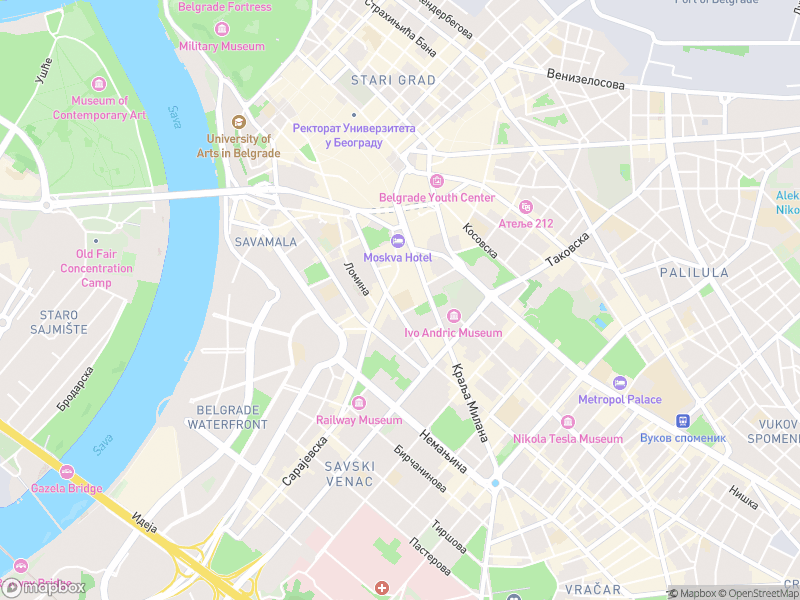
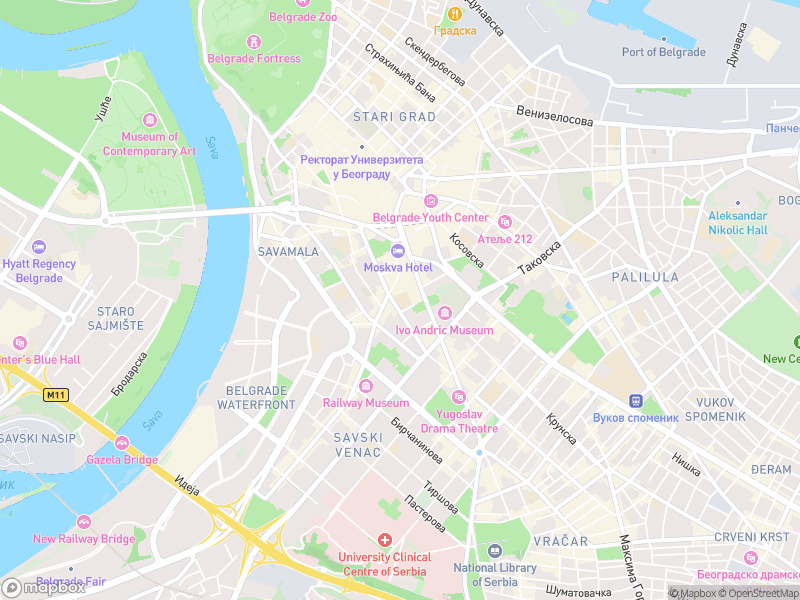
Generate RML, download map background: belgrade_tour+points

diff --git a/parse-route.js b/parse-route.js
@@ -4,7 +4,6 @@ const https = require('https');
 const { execSync } = require('child_process');
 const readline = require('readline/promises');
 
-// Функция для безопасного чтения токена из файла .env
 function loadEnv() {
     const envPath = path.join(__dirname, '.env');
     if (fs.existsSync(envPath)) {
@@ -12,9 +11,7 @@ function loadEnv() {
         envContent.split(/\r?\n/).forEach(line => {
             const parts = line.split('=');
             if (parts.length === 2) {
-                const key = parts[0].trim();
-                const value = parts[1].trim();
-                process.env[key] = value;
+                process.env[parts[0].trim()] = parts[1].trim();
             }
         });
     }
@@ -38,61 +35,25 @@ function parseWaypoints(content) {
     let match;
     const waypoints = [];
     while ((match = regex.exec(content)) !== null) {
-        const lat = parseFloat(match[1]);
-        const lon = parseFloat(match[2]);
-        const inner = match[3];
-        
-        const nameMatch = /<name>([^<]+)<\/name>/.exec(inner);
+        const lat = parseFloat(match[1]), lon = parseFloat(match[2]);
+        const nameMatch = /<name>([^<]+)<\/name>/.exec(match[3]);
         const name = nameMatch ? nameMatch[1].trim() : `Waypoint (${lat.toFixed(4)}, ${lon.toFixed(4)})`;
-
         waypoints.push({ x: lon, y: lat, name });
     }
-
     return waypoints;
-}
-
-function parseSVG(content) {
-    const points = [];
-    const polyRegex = /points="([^"]+)"/g;
-    let polyMatch;
-    while ((polyMatch = polyRegex.exec(content)) !== null) {
-        const rawPairs = polyMatch[1].trim().split(/[\s,]+/);
-        for (let i = 0; i < rawPairs.length; i += 2) {
-            if (rawPairs[i] && rawPairs[i + 1]) {
-                points.push({ x: parseFloat(rawPairs[i]), y: parseFloat(rawPairs[i + 1]) });
-            }
-        }
-    }
-    if (points.length === 0) {
-        const pathRegex = /d="([^"]+)"/g;
-        let pathMatch;
-        while ((pathMatch = pathRegex.exec(content)) !== null) {
-            const numbers = pathMatch[1].match(/[-+]?[0-9]*\.?[0-9]+/g);
-            if (numbers) {
-                for (let i = 0; i < numbers.length; i += 2) {
-                    if (numbers[i] && numbers[i + 1]) {
-                        points.push({ x: parseFloat(numbers[i]), y: parseFloat(numbers[i + 1]) });
-                    }
-                }
-            }
-        }
-    }
-    return points;
 }
 
 function downloadMapImage(minLon, minLat, maxLon, maxLat, destPath) {
     return new Promise((resolve) => {
         if (!MAPBOX_TOKEN) {
-            console.log('Предупреждение: Токен MAPBOX_TOKEN не найден в файле .env. Скачивание карты пропущено.');
+            console.log('Токен MAPBOX_TOKEN не найден. Скачивание карты пропущено.');
             return resolve();
         }
-
         const url = `https://api.mapbox.com/styles/v1/mapbox/streets-v12/static/[${minLon},${minLat},${maxLon},${maxLat}]/800x600?access_token=${MAPBOX_TOKEN}`;
-        
-        console.log('Скачивание карты-подложки с учетом отступов из Mapbox...');
+        console.log('Скачивание карты из Mapbox...');
         https.get(url, (res) => {
             if (res.statusCode !== 200) {
-                console.error(`Ошибка скачивания карты: HTTP статус ${res.statusCode}`);
+                console.error(`Ошибка скачивания карты: HTTP status ${res.statusCode}`);
                 res.resume();
                 return resolve();
             }
@@ -100,11 +61,11 @@ function downloadMapImage(minLon, minLat, maxLon, maxLat, destPath) {
             res.pipe(fileStream);
             fileStream.on('finish', () => {
                 fileStream.close();
-                console.log('Карта-подложка успешно сохранена как map.png!');
+                console.log('Карта успешно сохранена как map.png');
                 resolve();
             });
         }).on('error', (err) => {
-            console.error('Ошибка соединения при скачивании карты:', err.message);
+            console.error('Ошибка соединения Mapbox:', err.message);
             resolve();
         });
     });
@@ -112,10 +73,7 @@ function downloadMapImage(minLon, minLat, maxLon, maxLat, destPath) {
 
 function simplifyPoints(points, epsilon) {
     if (points.length <= 2) return points;
-
-    let maxDist = 0;
-    let index = 0;
-
+    let maxDist = 0, index = 0;
     for (let i = 1; i < points.length - 1; i++) {
         const dist = perpendicularDistance(points[i], points[0], points[points.length - 1]);
         if (dist > maxDist) {
@@ -123,24 +81,19 @@ function simplifyPoints(points, epsilon) {
             index = i;
         }
     }
-
     if (maxDist > epsilon) {
         const left = simplifyPoints(points.slice(0, index + 1), epsilon);
         const right = simplifyPoints(points.slice(index, points.length), epsilon);
         return [...left.slice(0, -1), ...right];
-    } else {
-        return [points[0], points[points.length - 1]];
     }
+    return [points[0], points[points.length - 1]];
 }
 
 function perpendicularDistance(point, start, end) {
-    const dx = end.x - start.x;
-    const dy = end.y - start.y;
+    const dx = end.x - start.x, dy = end.y - start.y;
     const length = Math.sqrt(dx * dx + dy * dy);
     const u = ((point.x - start.x) * dx + (point.y - start.y) * dy) / (length * length);
-    const closestX = start.x + u * dx;
-    const closestY = start.y + u * dy;
-    return Math.sqrt((point.x - closestX) ** 2 + (point.y - closestY) ** 2);
+    return Math.sqrt((point.x - (start.x + u * dx)) ** 2 + (point.y - (start.y + u * dy)) ** 2);
 }
 
 function filterGPSNoise(points, epsilon) {
@@ -150,8 +103,7 @@ function filterGPSNoise(points, epsilon) {
         const nextPoint = points[i + 1];
         const angle = Math.atan2(nextPoint.y - prevPoint.y, nextPoint.x - prevPoint.x);
         const prevAngle = Math.atan2(prevPoint.y - points[i].y, prevPoint.x - points[i].x);
-        const angleDiff = Math.abs(angle - prevAngle);
-        if (angleDiff > epsilon) {
+        if (Math.abs(angle - prevAngle) > epsilon) {
             filteredPoints.push(points[i]);
         }
     }
@@ -160,52 +112,27 @@ function filterGPSNoise(points, epsilon) {
 }
 
 async function run() {
-    const rl = readline.createInterface({
-        input: process.stdin,
-        output: process.stdout,
-    });
-
+    const rl = readline.createInterface({ input: process.stdin, output: process.stdout });
     try {
-        const fileName = await rl.question('Введите имя файла (например, Banya Luka 10k.gpx): ');
+        const fileName = await rl.question('Введите имя GPX файла (например, Banya Luka 10k.gpx): ');
         if (!fs.existsSync(fileName)) {
             console.log(`Ошибка: файл "${fileName}" не найден.`);
-            rl.close();
             return;
         }
 
         const fileContent = fs.readFileSync(fileName, 'utf8');
-        const ext = path.extname(fileName).toLowerCase();
-        let rawPoints = [];
-        let rawWaypoints = [];
-
-        if (ext === '.gpx') {
-            rawPoints = parseGPX(fileContent);
-            rawWaypoints = parseWaypoints(fileContent);
-        } else if (ext === '.svg') {
-            rawPoints = parseSVG(fileContent);
-        } else {
-            console.log('Неподдерживаемый формат. Используйте .gpx или .svg');
-            rl.close();
-            return;
-        }
+        let rawPoints = parseGPX(fileContent);
+        let rawWaypoints = parseWaypoints(fileContent);
 
         if (rawPoints.length === 0) {
-            console.log('Координаты маршрута не найдены.');
-            rl.close();
+            console.log('Маршрут не найден.');
             return;
         }
 
         const epsilon = 0.001;
-        rawPoints = simplifyPoints(rawPoints, epsilon);
-        rawPoints = filterGPSNoise(rawPoints, epsilon);
+        rawPoints = filterGPSNoise(simplifyPoints(rawPoints, epsilon), epsilon);
 
-        const selectedWaypoints = rawWaypoints;
-        if (rawWaypoints.length > 0) {
-            console.log(`\nАвтоматически добавлено точек из файла: ${rawWaypoints.length}`);
-        }
-
-       const lons = rawPoints.map(p => p.x);
-        const lats = rawPoints.map(p => p.y);
+        const lons = rawPoints.map(p => p.x), lats = rawPoints.map(p => p.y);
         const minLon = Math.min(...lons), maxLon = Math.max(...lons);
         const minLat = Math.min(...lats), maxLat = Math.max(...lats);
 
@@ -215,76 +142,48 @@ async function run() {
             pointsToUse = rawPoints.filter((_, index) => index % step === 0);
         }
 
-        const xs = pointsToUse.map(p => p.x);
-        const ys = pointsToUse.map(p => p.y);
+        const xs = pointsToUse.map(p => p.x), ys = pointsToUse.map(p => p.y);
         const minX = Math.min(...xs), maxX = Math.max(...xs);
         const minY = Math.min(...ys), maxY = Math.max(...ys);
 
-        // Расчет средней широты трека для коррекции проекции
         const avgLat = lats.reduce((sum, lat) => sum + lat, 0) / lats.length;
         const latCorrection = Math.cos(avgLat * (Math.PI / 180));
 
-        // Реальные географические размеры с учетом поправки по широте
         const spanX = (maxX - minX) * latCorrection;
         const spanY = maxY - minY;
 
-        // Единый масштаб для сохранения пропорций подложки Mapbox (800x600, рабочая зона 700x500)
         const scaleX = 700 / (spanX || 1);
         const scaleY = 500 / (spanY || 1);
         const scale = Math.min(scaleX, scaleY);
 
-        // Центрирование трека внутри зоны 700x500
         const offsetX = 50 + (700 - spanX * scale) / 2;
         const offsetY = 50 + (500 - spanY * scale) / 2;
 
-        const rmlVertices = [];
-        pointsToUse.forEach((p, idx) => {
+        const rmlVertices = pointsToUse.map((p, idx) => {
             const normX = Math.round(offsetX + (p.x - minX) * latCorrection * scale);
-            const normY = ext === '.gpx'
-                ? Math.round(550 - ( offsetY - 50 + (p.y - minY) * scale )) // Инверсия для GPX
-                : Math.round(offsetY + (p.y - minY) * scale);
-
-            rmlVertices.push(`                <StraightVertex radius="10" x="${normX}" y="${normY}" id="0:${884 + idx}"/>`);
+            const normY = Math.round(550 - (offsetY - 50 + (p.y - minY) * scale));
+            return `                <StraightVertex radius="10" x="${normX}" y="${normY}" id="0:${884 + idx}"/>`;
         });
 
-        const rmlWaypoints = [];
-        selectedWaypoints.forEach((wpt, index) => {
+        const rmlWaypoints = rawWaypoints.map((wpt, index) => {
             const wptX = Math.round(offsetX + (wpt.x - minX) * latCorrection * scale);
-            const wptY = ext === '.gpx'
-                ? Math.round(550 - ( offsetY - 50 + (wpt.y - minY) * scale ))
-                : Math.round(offsetY + (wpt.y - minY) * scale);
-
-            rmlWaypoints.push(`        <Node x="${wptX}" y="${wptY}" name="${wpt.name}" id="0:${500 + index}"/>`);
+            const wptY = Math.round(550 - (offsetY - 50 + (wpt.y - minY) * scale));
+            return `        <Node x="${wptX}" y="${wptY}" name="${wpt.name}" id="0:${500 + index}"/>`;
         });
 
-        // Единая переменная отступа (padding) в пикселях для карты и трека
         const padding = 50;
-        const targetWidth = 800 - padding * 2;   // 700
-        const targetHeight = 600 - padding * 2;  // 500
+        const targetWidth = 700, targetHeight = 500;
+        const lonPadding = (maxLon - minLon) * (padding / targetWidth);
+        const latPadding = (maxLat - minLat) * (padding / targetHeight);
 
-        // Расчет географического отступа (в градусах) на основе пиксельного отступа
-        const lonSpan = maxLon - minLon;
-        const latSpan = maxLat - minLat;
-        const lonPadding = lonSpan * (padding / targetWidth);
-        const latPadding = latSpan * (padding / targetHeight);
-
-        const paddedMinLon = minLon - lonPadding;
-        const paddedMinLat = minLat - latPadding;
-        const paddedMaxLon = maxLon + lonPadding;
-        const paddedMaxLat = maxLat + latPadding;
-
-        const baseName = path.basename(fileName, ext).trim();
+        const baseName = path.basename(fileName, path.extname(fileName)).trim();
         const projectFolder = baseName;
-
         fs.mkdirSync(projectFolder, { recursive: true });
-        
-        // Передаем расширенный bbox с отступом в функцию скачивания
-        await downloadMapImage(paddedMinLon, paddedMinLat, paddedMaxLon, paddedMaxLat, path.join(projectFolder, 'map.png'));
+
+        await downloadMapImage(minLon - lonPadding, minLat - latPadding, maxLon + lonPadding, maxLat + latPadding, path.join(projectFolder, 'map.png'));
 
         const yamlPath = path.join(projectFolder, 'rive.yaml');
-        if (!fs.existsSync(yamlPath)) {
-            fs.writeFileSync(yamlPath, `name: ${baseName}\n`);
-        }
+        if (!fs.existsSync(yamlPath)) fs.writeFileSync(yamlPath, `name: ${baseName}\n`);
 
         const rmlTemplate = `<?xml version="1.0" encoding="UTF-8"?>
 <Rive version="1" kind="fragment">
@@ -641,20 +540,17 @@ ${rmlWaypoints.join('\n')}
 </Rive>`;
 
         fs.writeFileSync(path.join(projectFolder, 'scene.rml'), rmlTemplate);
-        console.log(`Структура проекта обновлена в папке ${projectFolder}/`);
+        console.log(`Проект обновлен в ${projectFolder}/`);
 
-        console.log('Сборка .riv файла...');
         try {
             execSync('xvfb-run rive . --once', { cwd: projectFolder, stdio: 'inherit' });
-            console.log('Сборка прошла успешно!');
+            console.log('Сборка Rive прошла успешно!');
         } catch (buildErr) {
-            console.error('Ошибка сборки Rive. Проверьте синтаксис RML.');
+            console.error('Ошибка сборки Rive.');
         }
 
-        console.log('Создание коммита в Git...');
         execSync('git add "../parse-route.js" "."', { cwd: path.join(__dirname, projectFolder), stdio: 'inherit' });
-        execSync(`git commit -m "Generate RML, download map background and parse waypoints: ${projectFolder}"`, { cwd: path.join(__dirname, projectFolder), stdio: 'inherit' });
-
+        execSync(`git commit -m "Generate RML, download map background: ${projectFolder}"`, { cwd: path.join(__dirname, projectFolder), stdio: 'inherit' });
         console.log('Готово!');
 
     } catch (err) {
